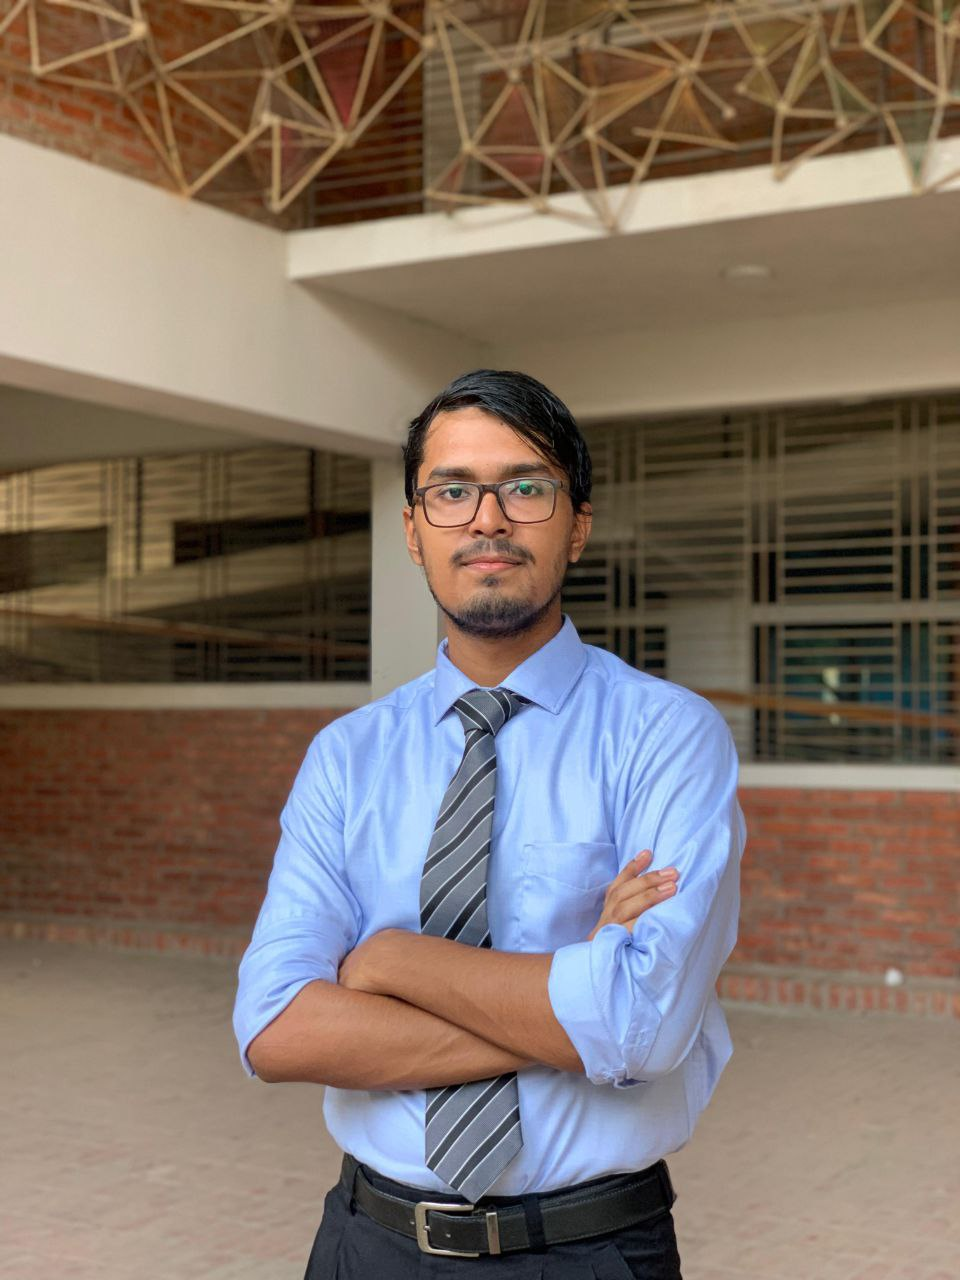
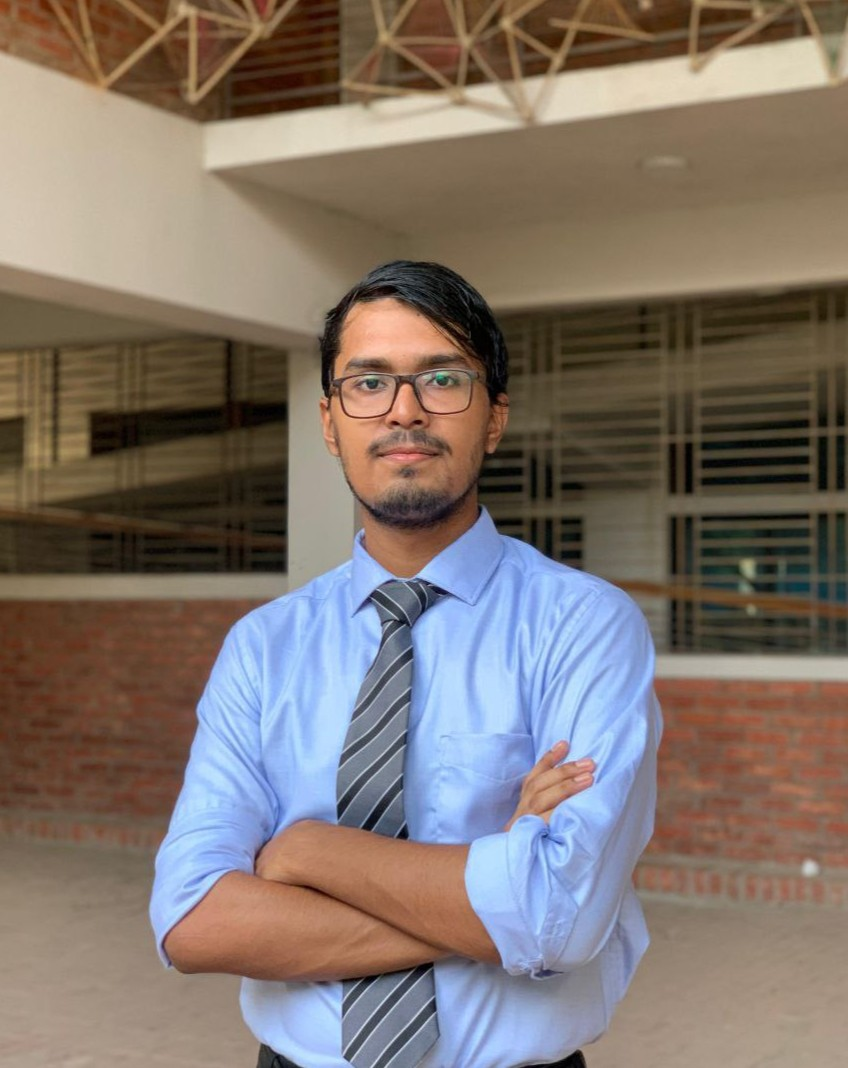
Update 1.1.5

diff --git a/src/components/About.tsx b/src/components/About.tsx
@@ -13,7 +13,7 @@ export default function About() {
         <div className="grid md:grid-cols-2 gap-12 items-center">
           <AnimateOnScroll animation="animate-fade-in-left" className="flex justify-center">
             <Image
-              src="/images/samin_profile.jpg"
+              src="/images/samin_archi.jpg"
               alt="Samin Siddique"
               width={400}
               height={400}
